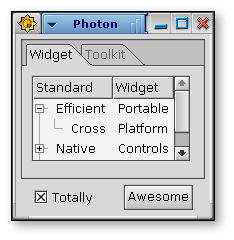
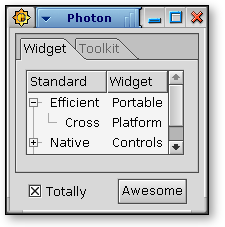
Make the Photon screenshot a little smaller.

diff --git a/index.php b/index.php
@@ -126,7 +126,7 @@ bugzilla email preferences.</p>
 <p><img src="images/lin-example.png" alt="Linux" width="212" height="224"></p>
 <p><img src="images/mac-example.png" alt="Mac OS X" width="232" height="237"></p>
 <p><img src="images/mot-example.png" alt="Motif" width="232" height="210"></p>
-<p><img src="images/pho-example.png" alt="Photon" width="234" height="240"></p>
+<p><img src="images/pho-example.png" alt="Photon" width="225" height="227"></p>
 </center>
 </table>
 </body>
